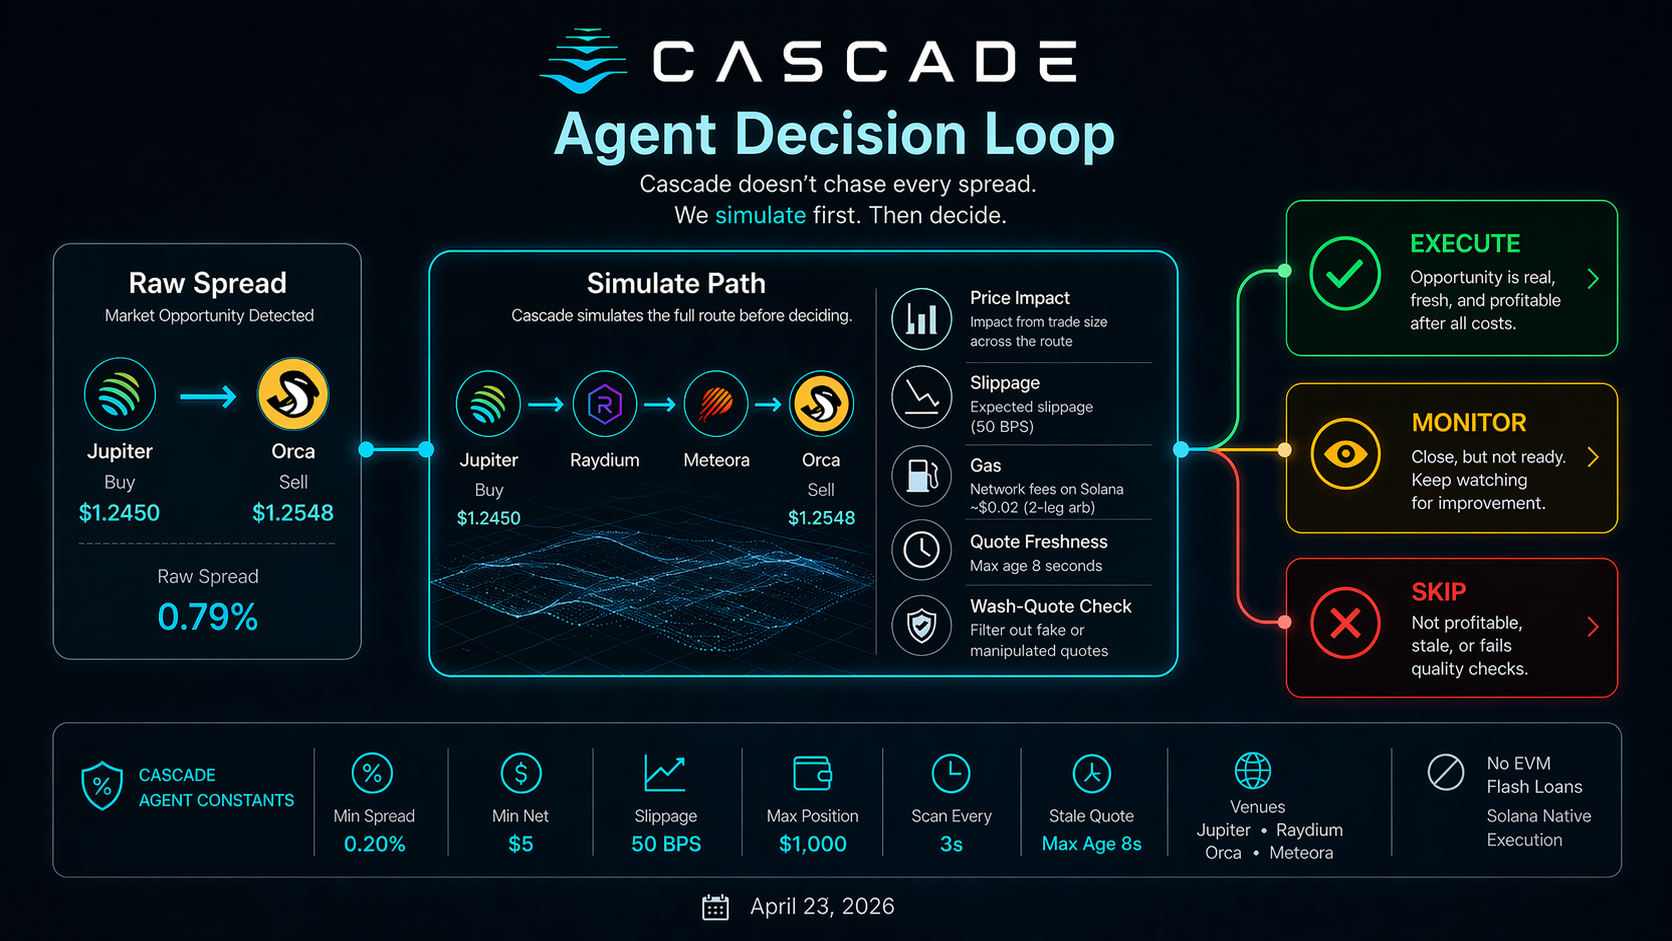
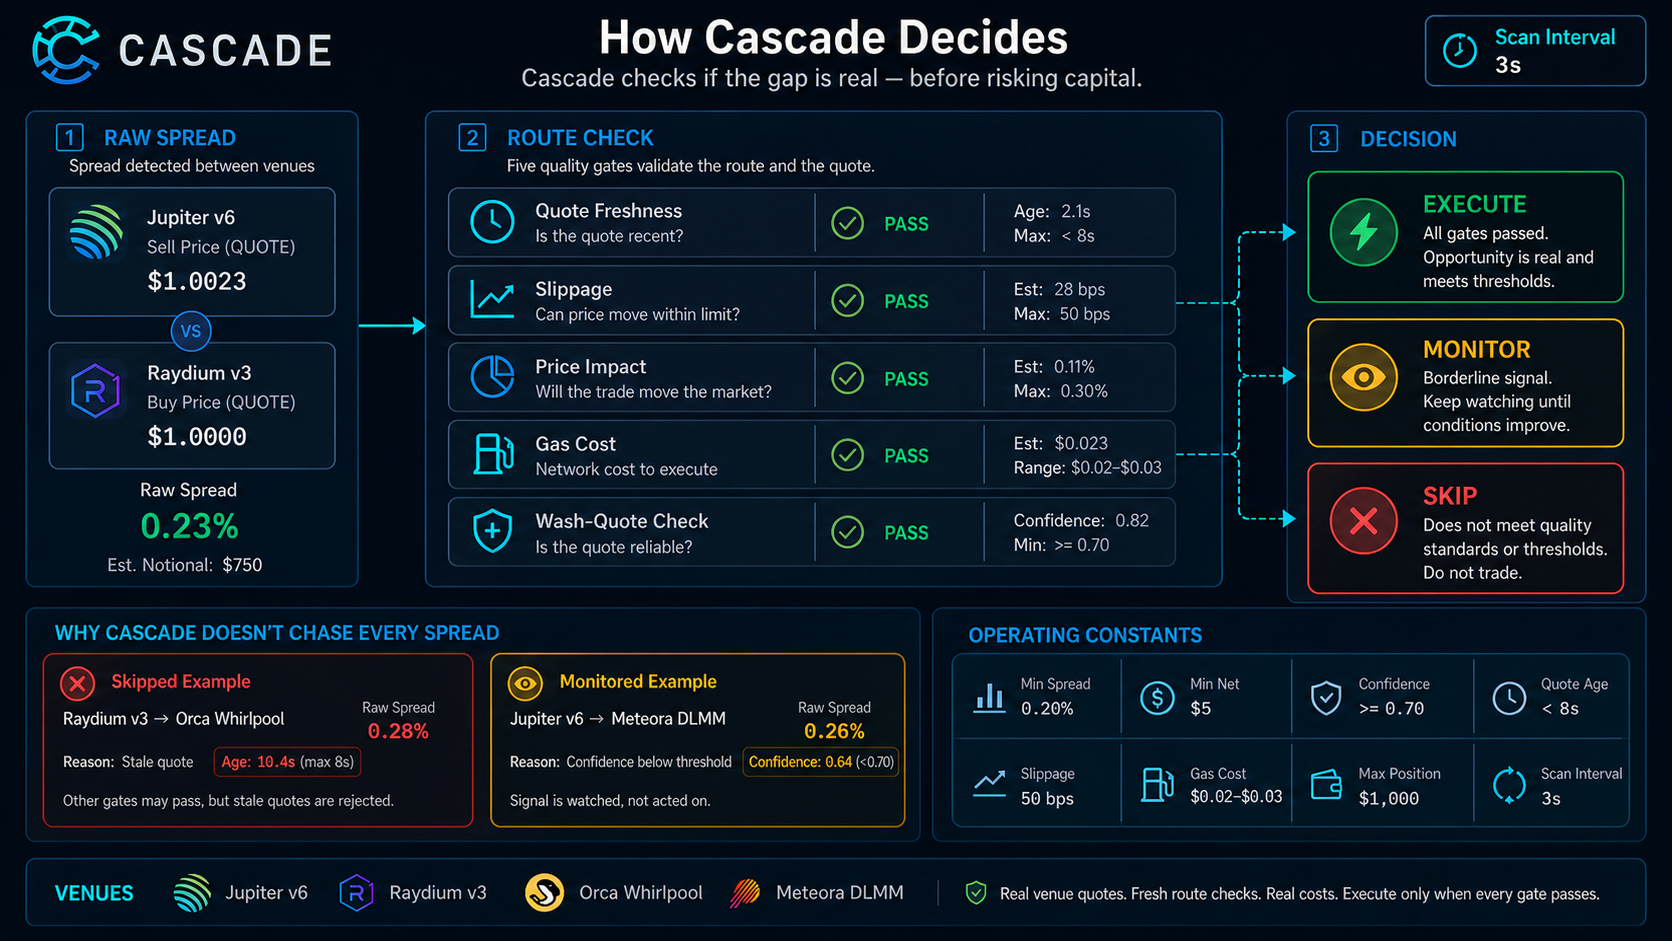
docs: replace cascade scanner visuals

Changed region(s): [[0.0, 0.0, 0.9952, 0.9862]]

diff --git a/README.md b/README.md
@@ -7,17 +7,17 @@
 
 Autonomous cross-venue arbitrage scanner for Solana. Monitors price spreads across four DEXes every 3 seconds and uses a Claude agent to evaluate, simulate, and execute opportunities before they close.
 
-## Agent Decision Loop
+## Live Arbitrage Scanner
 
-<img src="assets/preview-loop.png" alt="Cascade agent decision loop" width="100%" />
+<img src="assets/preview-scanner.png" alt="Cascade live arbitrage scanner" width="100%" />
 
-Cascade's live decision loop: raw spread capture, simulation path, price-impact checks, net-profit math, and Claude's final `EXECUTE`, `MONITOR`, or `SKIP` decision before the window closes.
+Real-time scanner view for Cascade: live venue quotes from Jupiter, Raydium, Orca, and Meteora, selected opportunity, route quality checks, decision queue, recent opportunity log, and guardrails that keep stale or low-quality spreads out of execution.
 
-## Cross-Venue Scanner
+## How Cascade Decides
 
-<img src="assets/preview-scanner.png" alt="Cascade cross-venue scanner" width="100%" />
+<img src="assets/preview-loop.png" alt="Cascade decision workflow" width="100%" />
 
-Real-time scanner view for Jupiter, Raydium, Orca, and Meteora showing the detected price gap, route health, gas-adjusted profit, confidence, and execution route for each opportunity.
+Cascade checks whether the price gap is real before risking capital: raw spread detection, quote freshness, slippage, price impact, gas, wash-quote checks, and the final `EXECUTE`, `MONITOR`, or `SKIP` decision.
 
 ---
 
